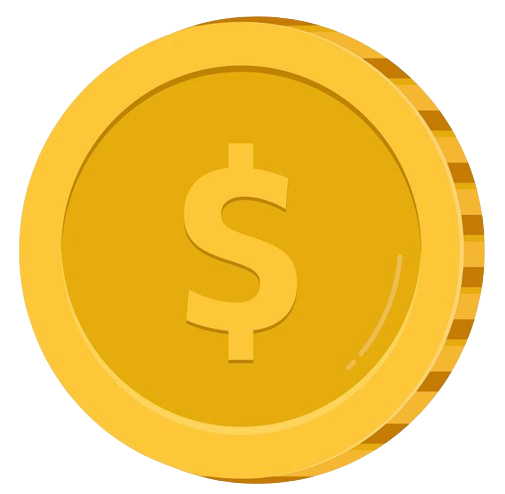
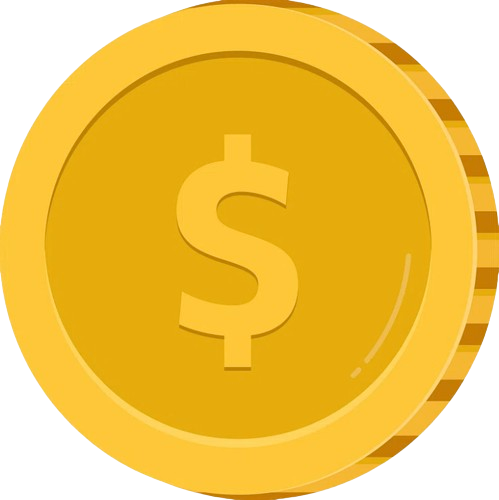
commit

diff --git a/src/Circle.js b/src/Circle.js
@@ -44,13 +44,14 @@ const Circle = ({img}) => {
 
 
   return (
-    <div className="app">
+    <div className="app" >
          
-         <div ><img src={coin} style={{width:'45px'}}></img> <l style={{fontSize:'60px'}}>{tapCount}</l></div>
+         <div className='counter'><img src={coin} style={{width:'45px'}}></img> &nbsp; <l style={{fontSize:'45px',color:'gold'}}>{tapCount}</l></div>
          <br></br>
-      <div className="image-container" onClick={(e) => { handleTap(e); addTapEffect(); }} onTouchStart={(e) => { handleTap(e); addTapEffect(); }}>
+         <br></br> <br></br> <br></br> <br></br> 
+      <div className="image-container"  onClick={(e) => { handleTap(e); addTapEffect(); }} onTouchStart={(e) => { handleTap(e); addTapEffect(); }}>
       
-        <img src={img} alt="Center" id="center-image" className="center-image" />
+        <img src={img} style={{width:'20em'}} alt="Center" id="center-image" className="center-image" />
        
       </div>
     </div>

diff --git a/src/App.js b/src/App.js
@@ -20,18 +20,21 @@ function App() {
     <div className="App">
       <br></br>
       <br></br>
+      
       <div class="nav" style={{width:'100%'}}> 
       <label htmlFor="image-upload" className="image-upload-label">Upload</label>
       <input type="file" id="image-upload" accept="image/*" onChange={handleFileChange} />
 
       &nbsp;
+      <br></br>
+      <br></br>
       
       
       </div>
 
 
      
-      <Circle img={imageSrc}/>
+      <Circle style={{width:'2px'}}img={imageSrc}/>
    
     </div>
   );

diff --git a/src/Circle.css b/src/Circle.css
@@ -30,8 +30,7 @@
   }
   
   .image-container {
-    width: 75vmin;
-    height: 75vmin;
+   
     display: flex;
     justify-content: center;
     align-items: center;
@@ -39,8 +38,7 @@
   }
   
   .center-image {
-    width: 100%;
-    height: 100%;
+   
     object-fit: cover;
     border-radius: 50%;
   }
@@ -51,7 +49,7 @@
   
   .counter {
   
-    background-color: rgba(0, 0, 0, 0.5);
+   display: flex;
     color: white;
     padding: 5px 10px;
     border-radius: 5px;

diff --git a/src/App.css b/src/App.css
@@ -1,3 +1,6 @@
+body{
+  background-color: black;
+}
 .App{
   display: flex;
   flex-direction: column;
